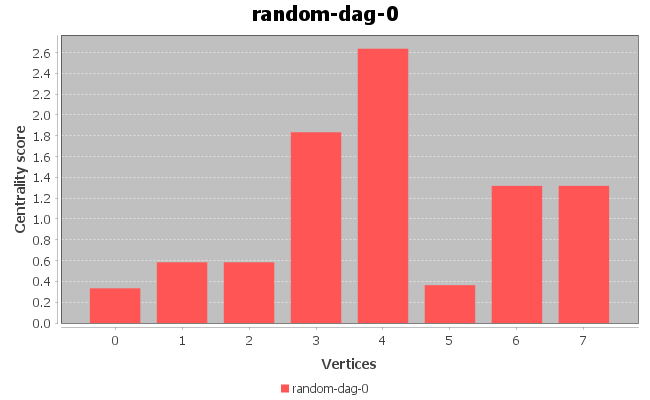
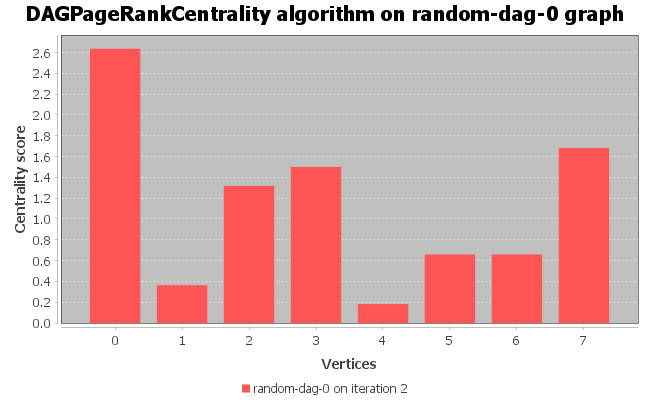
Making charts by reading from csv file, keeping the old methods

diff --git a/src/main/java/no/uib/mayarobbestad/dagcentrality/Main.java b/src/main/java/no/uib/mayarobbestad/dagcentrality/Main.java
@@ -41,13 +41,13 @@ public class Main {
 
     // The centrality algorithms to be run
     static final boolean DEGREE = true;
-    static final boolean INDEGREE = false;
-    static final boolean OUTDEGREE = false;
-    static final boolean CLOSENESS = false;
-    static final boolean INHARMONIC = false; // variation of closeness
-    static final boolean OUTHARMONIC = false;
-    static final boolean BETWEENNESS = false;
-    static final boolean EIGENVECTOR = false;
+    static final boolean INDEGREE = true;
+    static final boolean OUTDEGREE = true;
+    static final boolean CLOSENESS = true;
+    static final boolean INHARMONIC = true; // variation of closeness
+    static final boolean OUTHARMONIC = true;
+    static final boolean BETWEENNESS = true;
+    static final boolean EIGENVECTOR = true;
     static final boolean KATZ = false;
     static final boolean PAGERANK = false;
     static final boolean DAGPAGERANK = true;
@@ -60,7 +60,9 @@ public class Main {
     static int iteration = 0;
     static boolean USEITERATIONS = true;
 
+    // algorithm will run MAXITERATIONS - 1 times
     static int MAXITERATIONS = 5; // the number of times the algorithm will run, applicable for PageRank
+    // algorithm will run 1 iteration
     static int DEFAULTITERATIONS = 1;
 
     public static void main(String[] args) throws IOException {
@@ -68,29 +70,12 @@ public class Main {
         readAndStoreGmlGraphs("data/dataFiles.txt", graphs, graphDirectory, true);
 
         for (Graph<Integer, DefaultEdge> graph : graphs) {
-            Set<DefaultEdge> removed = GreedyFAS.removeCycleFromDirectedGraph(graph);
-            System.out.println("removed:" + removed);
+            GreedyFAS.removeCycleFromDirectedGraph(graph);
         }
-
-        // storeCentralityScoresInFile("results/results.txt", graphs);
 
         storeCentralityScoresInCSV("results/results.csv", graphs);
 
         readCSVResultsAndStoreScoresInChart("results/results.csv", "results/charts");
-
-        // readResultsAndStoreScoresInChart("results/results.txt", "results/charts");
-
-        // only works for PageRank, when we want to visualize the iterations
-
-        /*
-         * for (int i = 1; i < MAXITERATIONS; i++) {
-         * iteration = i;
-         * storeCentralityScoresInFile("results/results.txt", graphs);
-         * // storeCentralityScoresInCSV("results/results.csv", graphs);
-         * readResultsAndStoreScoresInChart("results/results.txt", "results/charts");
-         * numAlgorithms = 0; // reset number of algorithms
-         * }
-         */
 
         // findNMostCentralVertices("results/results.txt", 5);
 
@@ -112,28 +97,28 @@ public class Main {
             for (int g = 0; g < graphs.size(); g++) {
                 for (int i = 0; i < iterationsNeededPerAlgorithm.get(a); i++) {
                     DefaultCategoryDataset dataset = new DefaultCategoryDataset();
-                    String[] column = sc.nextLine().strip().split(",");
+                    String currentAlgorithmName = "";
+                    String currentGraphName = "";
 
-                    String currentAlgorithmName = column[0];
-                    String currentGraphName = column[1];
-
-                    Set<Integer> iterable = graphs.get(g).vertexSet();
-                    int count = 0;
-                    for (Integer v : iterable) {
+                    for (Integer v : graphs.get(g).vertexSet()) {
+                        String[] column = sc.nextLine().strip().split(",");
                         String algorithmName = column[0];
                         String graphName = column[1];
                         Integer iteration = Integer.parseInt(column[2]);
                         Integer vertex = Integer.parseInt(column[3]);
                         Double score = Double.parseDouble(column[4]);
-                        dataset.addValue(score, graphName, v);
-                        // TODO
-                        count++;
-                        if (count < iterable.size() - 1) {
-                            column = sc.nextLine().strip().split(",");
+                        if (currentAlgorithmName.equals("") && currentGraphName.equals("")) {
+                            currentAlgorithmName = algorithmName;
+                            currentGraphName = graphName;
                         }
+                        dataset.addValue(score, graphName + " on iteration " + i, v);
                     }
 
-                    JFreeChart barChart = ChartFactory.createBarChart(currentGraphName,
+                    System.out.println("algorithm " + currentAlgorithmName + " on graph " + currentGraphName
+                            + " needs total " + iterationsNeededPerAlgorithm.get(a) + " iterations");
+
+                    JFreeChart barChart = ChartFactory.createBarChart(
+                            currentAlgorithmName + " algorithm on " + currentGraphName + " graph",
                             "Vertices", "Centrality score",
                             dataset, PlotOrientation.VERTICAL, true, true, false);
 
@@ -153,16 +138,13 @@ public class Main {
             throws IOException {
         FileWriter writer = new FileWriter(file);
         writer.write("algorithm,graph,iteration,vertex,score\n"); // the columns
-
         int numGraphs = graphs.size();
-        System.out.println("here");
-        if (DEGREE) {
-            iterationsNeededPerAlgorithm.add(DEFAULTITERATIONS);
 
+        if (DEGREE) {
+            iterationsNeededPerAlgorithm.add(numAlgorithms, DEFAULTITERATIONS);
             for (int i = 0; i < numGraphs; i++) {
                 VertexScoringAlgorithm<Integer, Double> centralityAlgorithm = new DegreeCentrality<>(graphs.get(i),
                         false, true);
-
                 StringBuilder builder = new StringBuilder();
                 String path = graphDirectory.get(i);
                 String graphName = path.substring(path.lastIndexOf("/") + 1).replace(".gml", "");
@@ -178,13 +160,11 @@ public class Main {
             }
             numAlgorithms++;
         }
-
-        if (DAGPAGERANK && !USEITERATIONS) {
-            iterationsNeededPerAlgorithm.add(DEFAULTITERATIONS);
-
+        if (INDEGREE) {
+            iterationsNeededPerAlgorithm.add(numAlgorithms, DEFAULTITERATIONS);
             for (int i = 0; i < numGraphs; i++) {
-                VertexScoringAlgorithm<Integer, Double> centralityAlgorithm = new DAGPageRankCentrality<>(
-                        graphs.get(i), MAXITERATIONS);
+                VertexScoringAlgorithm<Integer, Double> centralityAlgorithm = new DegreeCentrality<>(graphs.get(i),
+                        true, true);
                 StringBuilder builder = new StringBuilder();
                 String path = graphDirectory.get(i);
                 String graphName = path.substring(path.lastIndexOf("/") + 1).replace(".gml", "");
@@ -192,7 +172,7 @@ public class Main {
                     builder.append(
                             centralityAlgorithm.getClass().getSimpleName() + ","
                                     + graphName + ","
-                                    + MAXITERATIONS + ","
+                                    + DEFAULTITERATIONS + ","
                                     + v + ","
                                     + centralityAlgorithm.getVertexScore(v) + "\n");
                 }
@@ -200,12 +180,169 @@ public class Main {
             }
             numAlgorithms++;
         }
-
+        if (OUTDEGREE) {
+            iterationsNeededPerAlgorithm.add(numAlgorithms, DEFAULTITERATIONS);
+            for (int i = 0; i < numGraphs; i++) {
+                VertexScoringAlgorithm<Integer, Double> centralityAlgorithm = new DegreeCentrality<>(graphs.get(i),
+                        false, true);
+                StringBuilder builder = new StringBuilder();
+                String path = graphDirectory.get(i);
+                String graphName = path.substring(path.lastIndexOf("/") + 1).replace(".gml", "");
+                for (Integer v : graphs.get(i).vertexSet()) {
+                    builder.append(
+                            centralityAlgorithm.getClass().getSimpleName() + ","
+                                    + graphName + ","
+                                    + DEFAULTITERATIONS + ","
+                                    + v + ","
+                                    + centralityAlgorithm.getVertexScore(v) + "\n");
+                }
+                writer.write(builder.toString());
+            }
+            numAlgorithms++;
+        }
+        if (INHARMONIC) {
+            iterationsNeededPerAlgorithm.add(numAlgorithms, DEFAULTITERATIONS);
+            for (int i = 0; i < numGraphs; i++) {
+                VertexScoringAlgorithm<Integer, Double> centralityAlgorithm = new HarmonicCentrality<>(graphs.get(i),
+                        true, true);
+                StringBuilder builder = new StringBuilder();
+                String path = graphDirectory.get(i);
+                String graphName = path.substring(path.lastIndexOf("/") + 1).replace(".gml", "");
+                for (Integer v : graphs.get(i).vertexSet()) {
+                    builder.append(
+                            centralityAlgorithm.getClass().getSimpleName() + ","
+                                    + graphName + ","
+                                    + DEFAULTITERATIONS + ","
+                                    + v + ","
+                                    + centralityAlgorithm.getVertexScore(v) + "\n");
+                }
+                writer.write(builder.toString());
+            }
+            numAlgorithms++;
+        }
+        if (OUTHARMONIC) {
+            iterationsNeededPerAlgorithm.add(numAlgorithms, DEFAULTITERATIONS);
+            for (int i = 0; i < numGraphs; i++) {
+                VertexScoringAlgorithm<Integer, Double> centralityAlgorithm = new HarmonicCentrality<>(graphs.get(i),
+                        false, true);
+                StringBuilder builder = new StringBuilder();
+                String path = graphDirectory.get(i);
+                String graphName = path.substring(path.lastIndexOf("/") + 1).replace(".gml", "");
+                for (Integer v : graphs.get(i).vertexSet()) {
+                    builder.append(
+                            centralityAlgorithm.getClass().getSimpleName() + ","
+                                    + graphName + ","
+                                    + DEFAULTITERATIONS + ","
+                                    + v + ","
+                                    + centralityAlgorithm.getVertexScore(v) + "\n");
+                }
+                writer.write(builder.toString());
+            }
+            numAlgorithms++;
+        }
+        if (BETWEENNESS) {
+            iterationsNeededPerAlgorithm.add(numAlgorithms, DEFAULTITERATIONS);
+            for (int i = 0; i < numGraphs; i++) {
+                VertexScoringAlgorithm<Integer, Double> centralityAlgorithm = new BetweennessCentrality<>(graphs.get(i),
+                        true);
+                StringBuilder builder = new StringBuilder();
+                String path = graphDirectory.get(i);
+                String graphName = path.substring(path.lastIndexOf("/") + 1).replace(".gml", "");
+                for (Integer v : graphs.get(i).vertexSet()) {
+                    builder.append(
+                            centralityAlgorithm.getClass().getSimpleName() + ","
+                                    + graphName + ","
+                                    + DEFAULTITERATIONS + ","
+                                    + v + ","
+                                    + centralityAlgorithm.getVertexScore(v) + "\n");
+                }
+                writer.write(builder.toString());
+            }
+            numAlgorithms++;
+        }
+        if (EIGENVECTOR) {
+            iterationsNeededPerAlgorithm.add(numAlgorithms, DEFAULTITERATIONS);
+            for (int i = 0; i < numGraphs; i++) {
+                VertexScoringAlgorithm<Integer, Double> centralityAlgorithm = new EigenvectorCentrality<>(
+                        graphs.get(i));
+                StringBuilder builder = new StringBuilder();
+                String path = graphDirectory.get(i);
+                String graphName = path.substring(path.lastIndexOf("/") + 1).replace(".gml", "");
+                for (Integer v : graphs.get(i).vertexSet()) {
+                    builder.append(
+                            centralityAlgorithm.getClass().getSimpleName() + ","
+                                    + graphName + ","
+                                    + DEFAULTITERATIONS + ","
+                                    + v + ","
+                                    + centralityAlgorithm.getVertexScore(v) + "\n");
+                }
+                writer.write(builder.toString());
+            }
+            numAlgorithms++;
+        }
+        if (KATZ) {
+            iterationsNeededPerAlgorithm.add(numAlgorithms, DEFAULTITERATIONS);
+            for (int i = 0; i < numGraphs; i++) {
+                VertexScoringAlgorithm<Integer, Double> centralityAlgorithm = new KatzCentrality<>(graphs.get(i));
+                StringBuilder builder = new StringBuilder();
+                String path = graphDirectory.get(i);
+                String graphName = path.substring(path.lastIndexOf("/") + 1).replace(".gml", "");
+                for (Integer v : graphs.get(i).vertexSet()) {
+                    builder.append(
+                            centralityAlgorithm.getClass().getSimpleName() + ","
+                                    + graphName + ","
+                                    + DEFAULTITERATIONS + ","
+                                    + v + ","
+                                    + centralityAlgorithm.getVertexScore(v) + "\n");
+                }
+                writer.write(builder.toString());
+            }
+            numAlgorithms++;
+        }
+        if (PAGERANK) {
+            iterationsNeededPerAlgorithm.add(numAlgorithms, DEFAULTITERATIONS);
+            for (int i = 0; i < numGraphs; i++) {
+                VertexScoringAlgorithm<Integer, Double> centralityAlgorithm = new PageRank<>(graphs.get(i));
+                StringBuilder builder = new StringBuilder();
+                String path = graphDirectory.get(i);
+                String graphName = path.substring(path.lastIndexOf("/") + 1).replace(".gml", "");
+                for (Integer v : graphs.get(i).vertexSet()) {
+                    builder.append(
+                            centralityAlgorithm.getClass().getSimpleName() + ","
+                                    + graphName + ","
+                                    + DEFAULTITERATIONS + ","
+                                    + v + ","
+                                    + centralityAlgorithm.getVertexScore(v) + "\n");
+                }
+                writer.write(builder.toString());
+            }
+            numAlgorithms++;
+        }
+        if (DAGPAGERANK && !USEITERATIONS) {
+            iterationsNeededPerAlgorithm.add(numAlgorithms, DEFAULTITERATIONS);
+            for (int i = 0; i < numGraphs; i++) {
+                VertexScoringAlgorithm<Integer, Double> centralityAlgorithm = new DAGPageRankCentrality<>(
+                        graphs.get(i), DEFAULTITERATIONS);
+                StringBuilder builder = new StringBuilder();
+                String path = graphDirectory.get(i);
+                String graphName = path.substring(path.lastIndexOf("/") + 1).replace(".gml", "");
+                for (Integer v : graphs.get(i).vertexSet()) {
+                    builder.append(
+                            centralityAlgorithm.getClass().getSimpleName() + ","
+                                    + graphName + ","
+                                    + DEFAULTITERATIONS + ","
+                                    + v + ","
+                                    + centralityAlgorithm.getVertexScore(v) + "\n");
+                }
+                writer.write(builder.toString());
+            }
+            numAlgorithms++;
+        }
         if (DAGPAGERANK && USEITERATIONS) {
-            iterationsNeededPerAlgorithm.add(MAXITERATIONS);
+            iterationsNeededPerAlgorithm.add(numAlgorithms, MAXITERATIONS);
 
             for (int i = 0; i < numGraphs; i++) {
-                for (int j = 1; j < MAXITERATIONS; j++) {
+                for (int j = 1; j <= MAXITERATIONS; j++) {
                     VertexScoringAlgorithm<Integer, Double> centralityAlgorithm = new DAGPageRankCentrality<>(
                             graphs.get(i), j);
                     StringBuilder builder = new StringBuilder();
@@ -224,7 +361,26 @@ public class Main {
             }
             numAlgorithms++;
         }
-
+        if (DAGBETWEENNESS) {
+            iterationsNeededPerAlgorithm.add(numAlgorithms, DEFAULTITERATIONS);
+            for (int i = 0; i < numGraphs; i++) {
+                VertexScoringAlgorithm<Integer, Double> centralityAlgorithm = new DAGBetweennessSourceSinkCentrality<>(
+                        graphs.get(i));
+                StringBuilder builder = new StringBuilder();
+                String path = graphDirectory.get(i);
+                String graphName = path.substring(path.lastIndexOf("/") + 1).replace(".gml", "");
+                for (Integer v : graphs.get(i).vertexSet()) {
+                    builder.append(
+                            centralityAlgorithm.getClass().getSimpleName() + ","
+                                    + graphName + ","
+                                    + DEFAULTITERATIONS + ","
+                                    + v + ","
+                                    + centralityAlgorithm.getVertexScore(v) + "\n");
+                }
+                writer.write(builder.toString());
+            }
+            numAlgorithms++;
+        }
         writer.close();
     }
 
